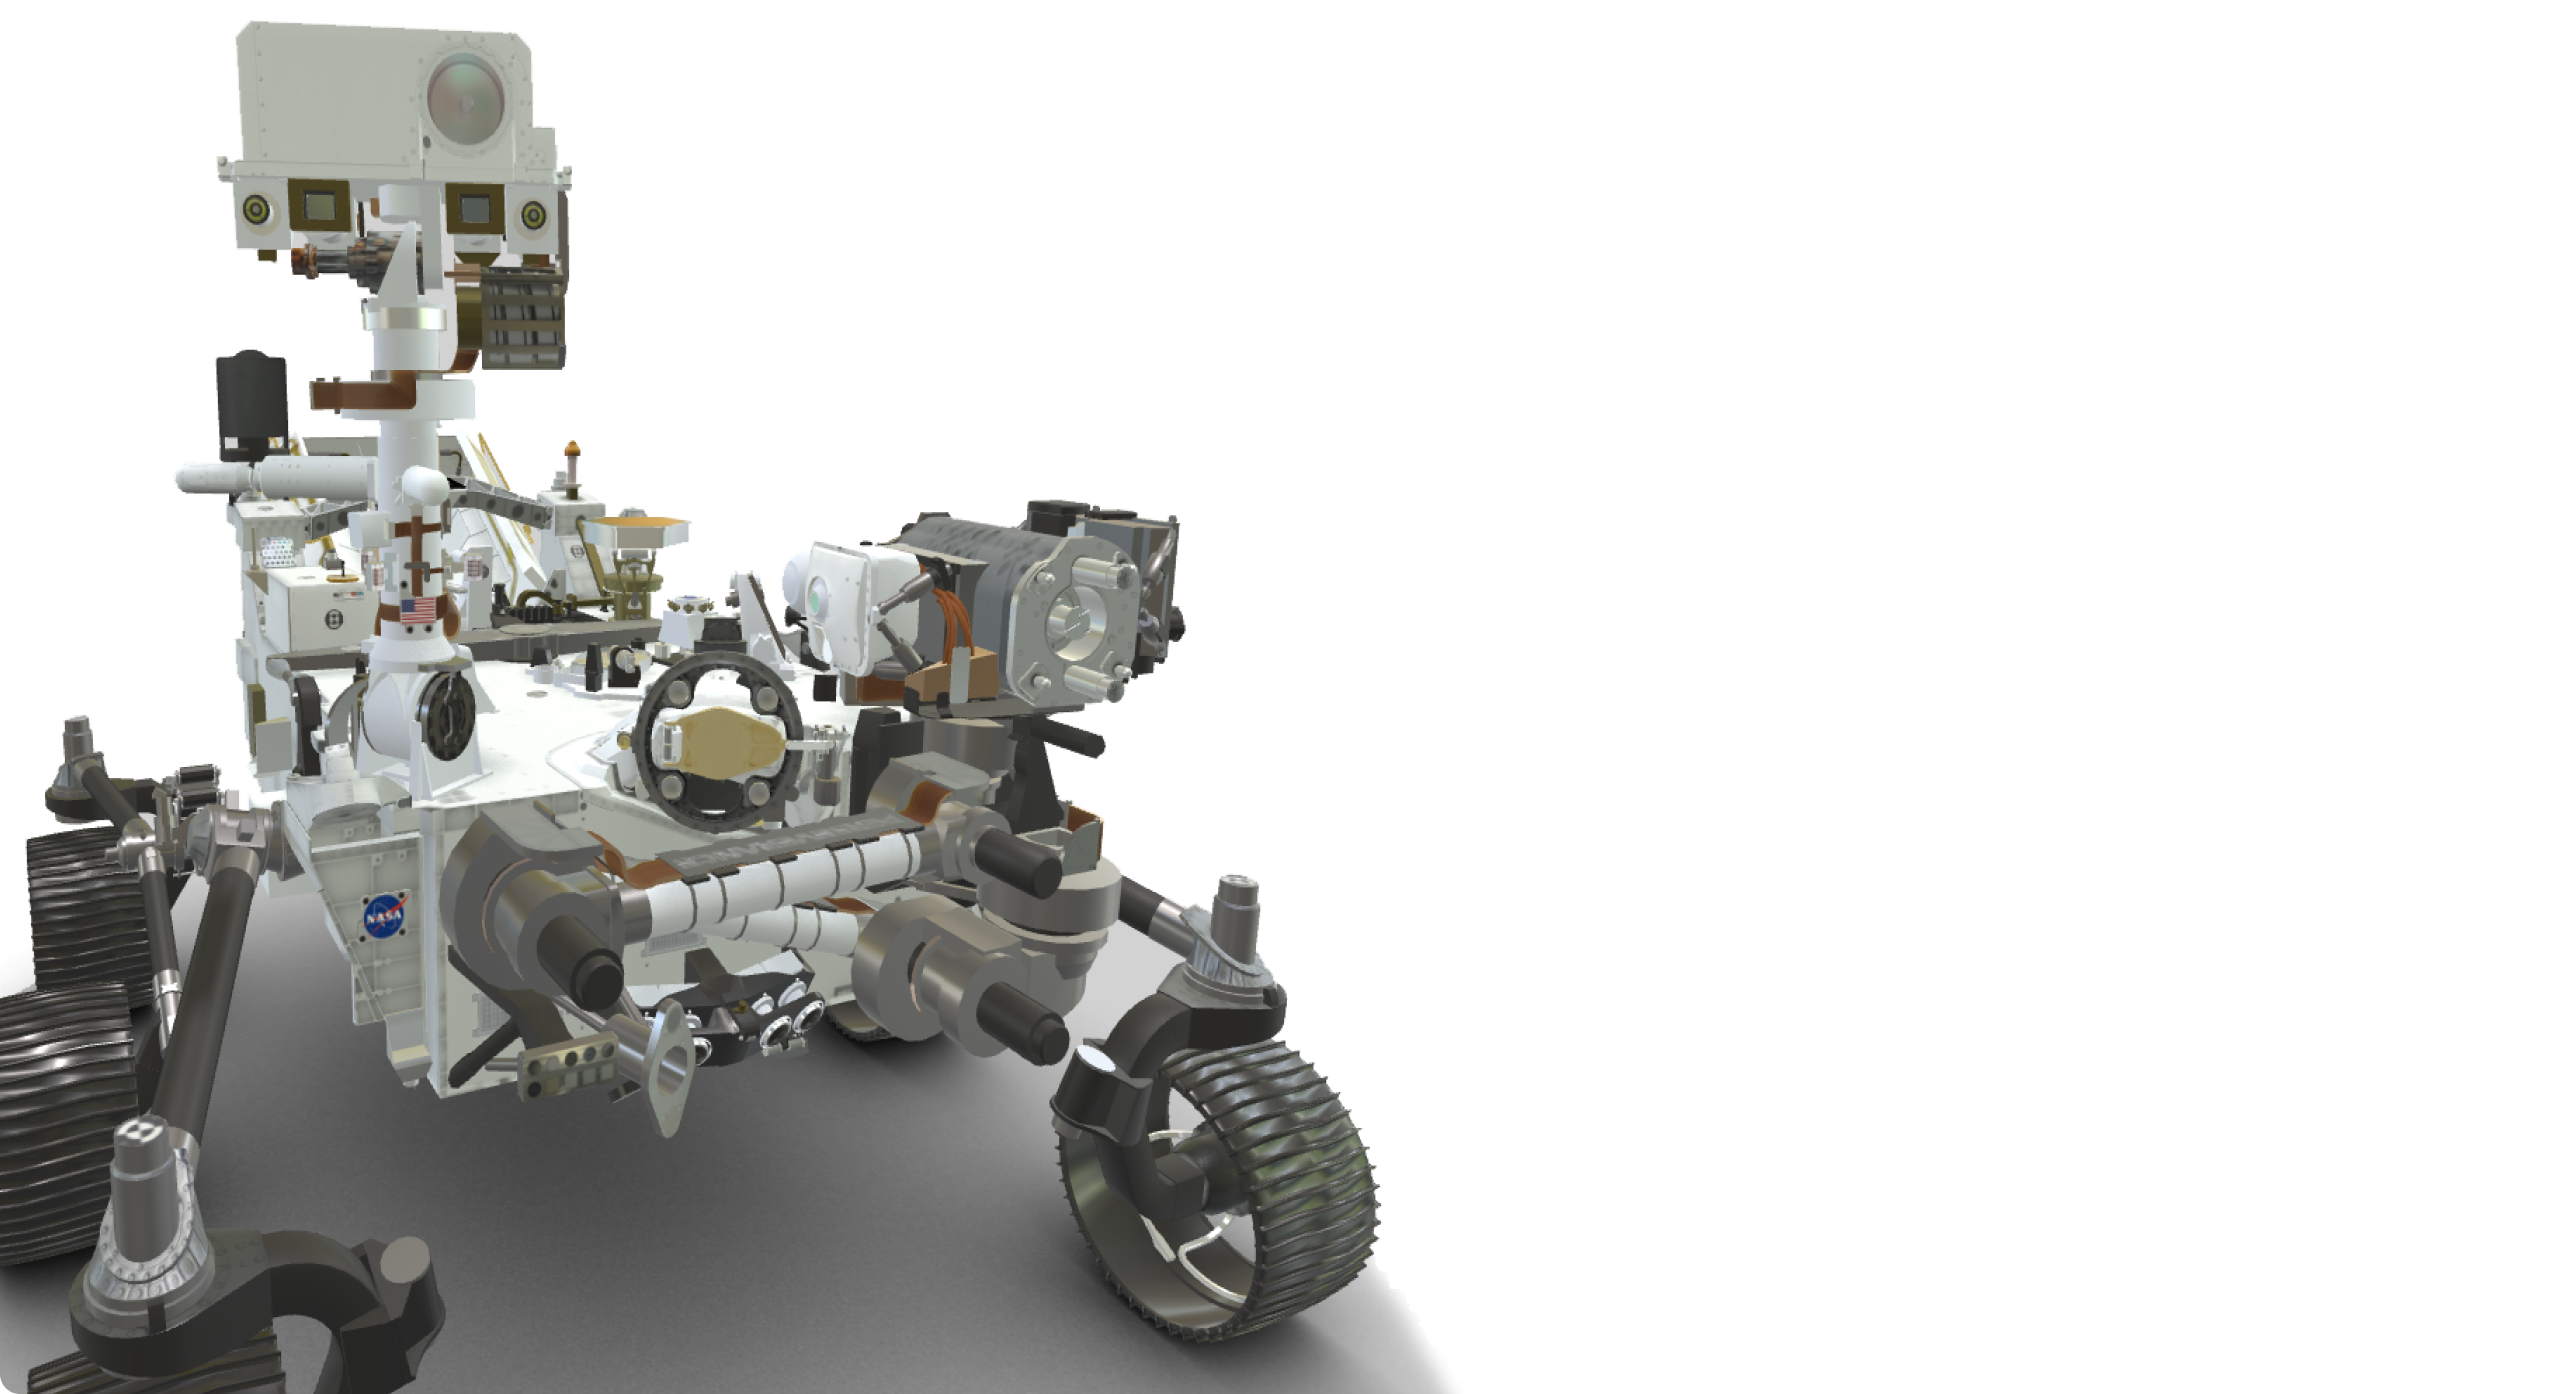
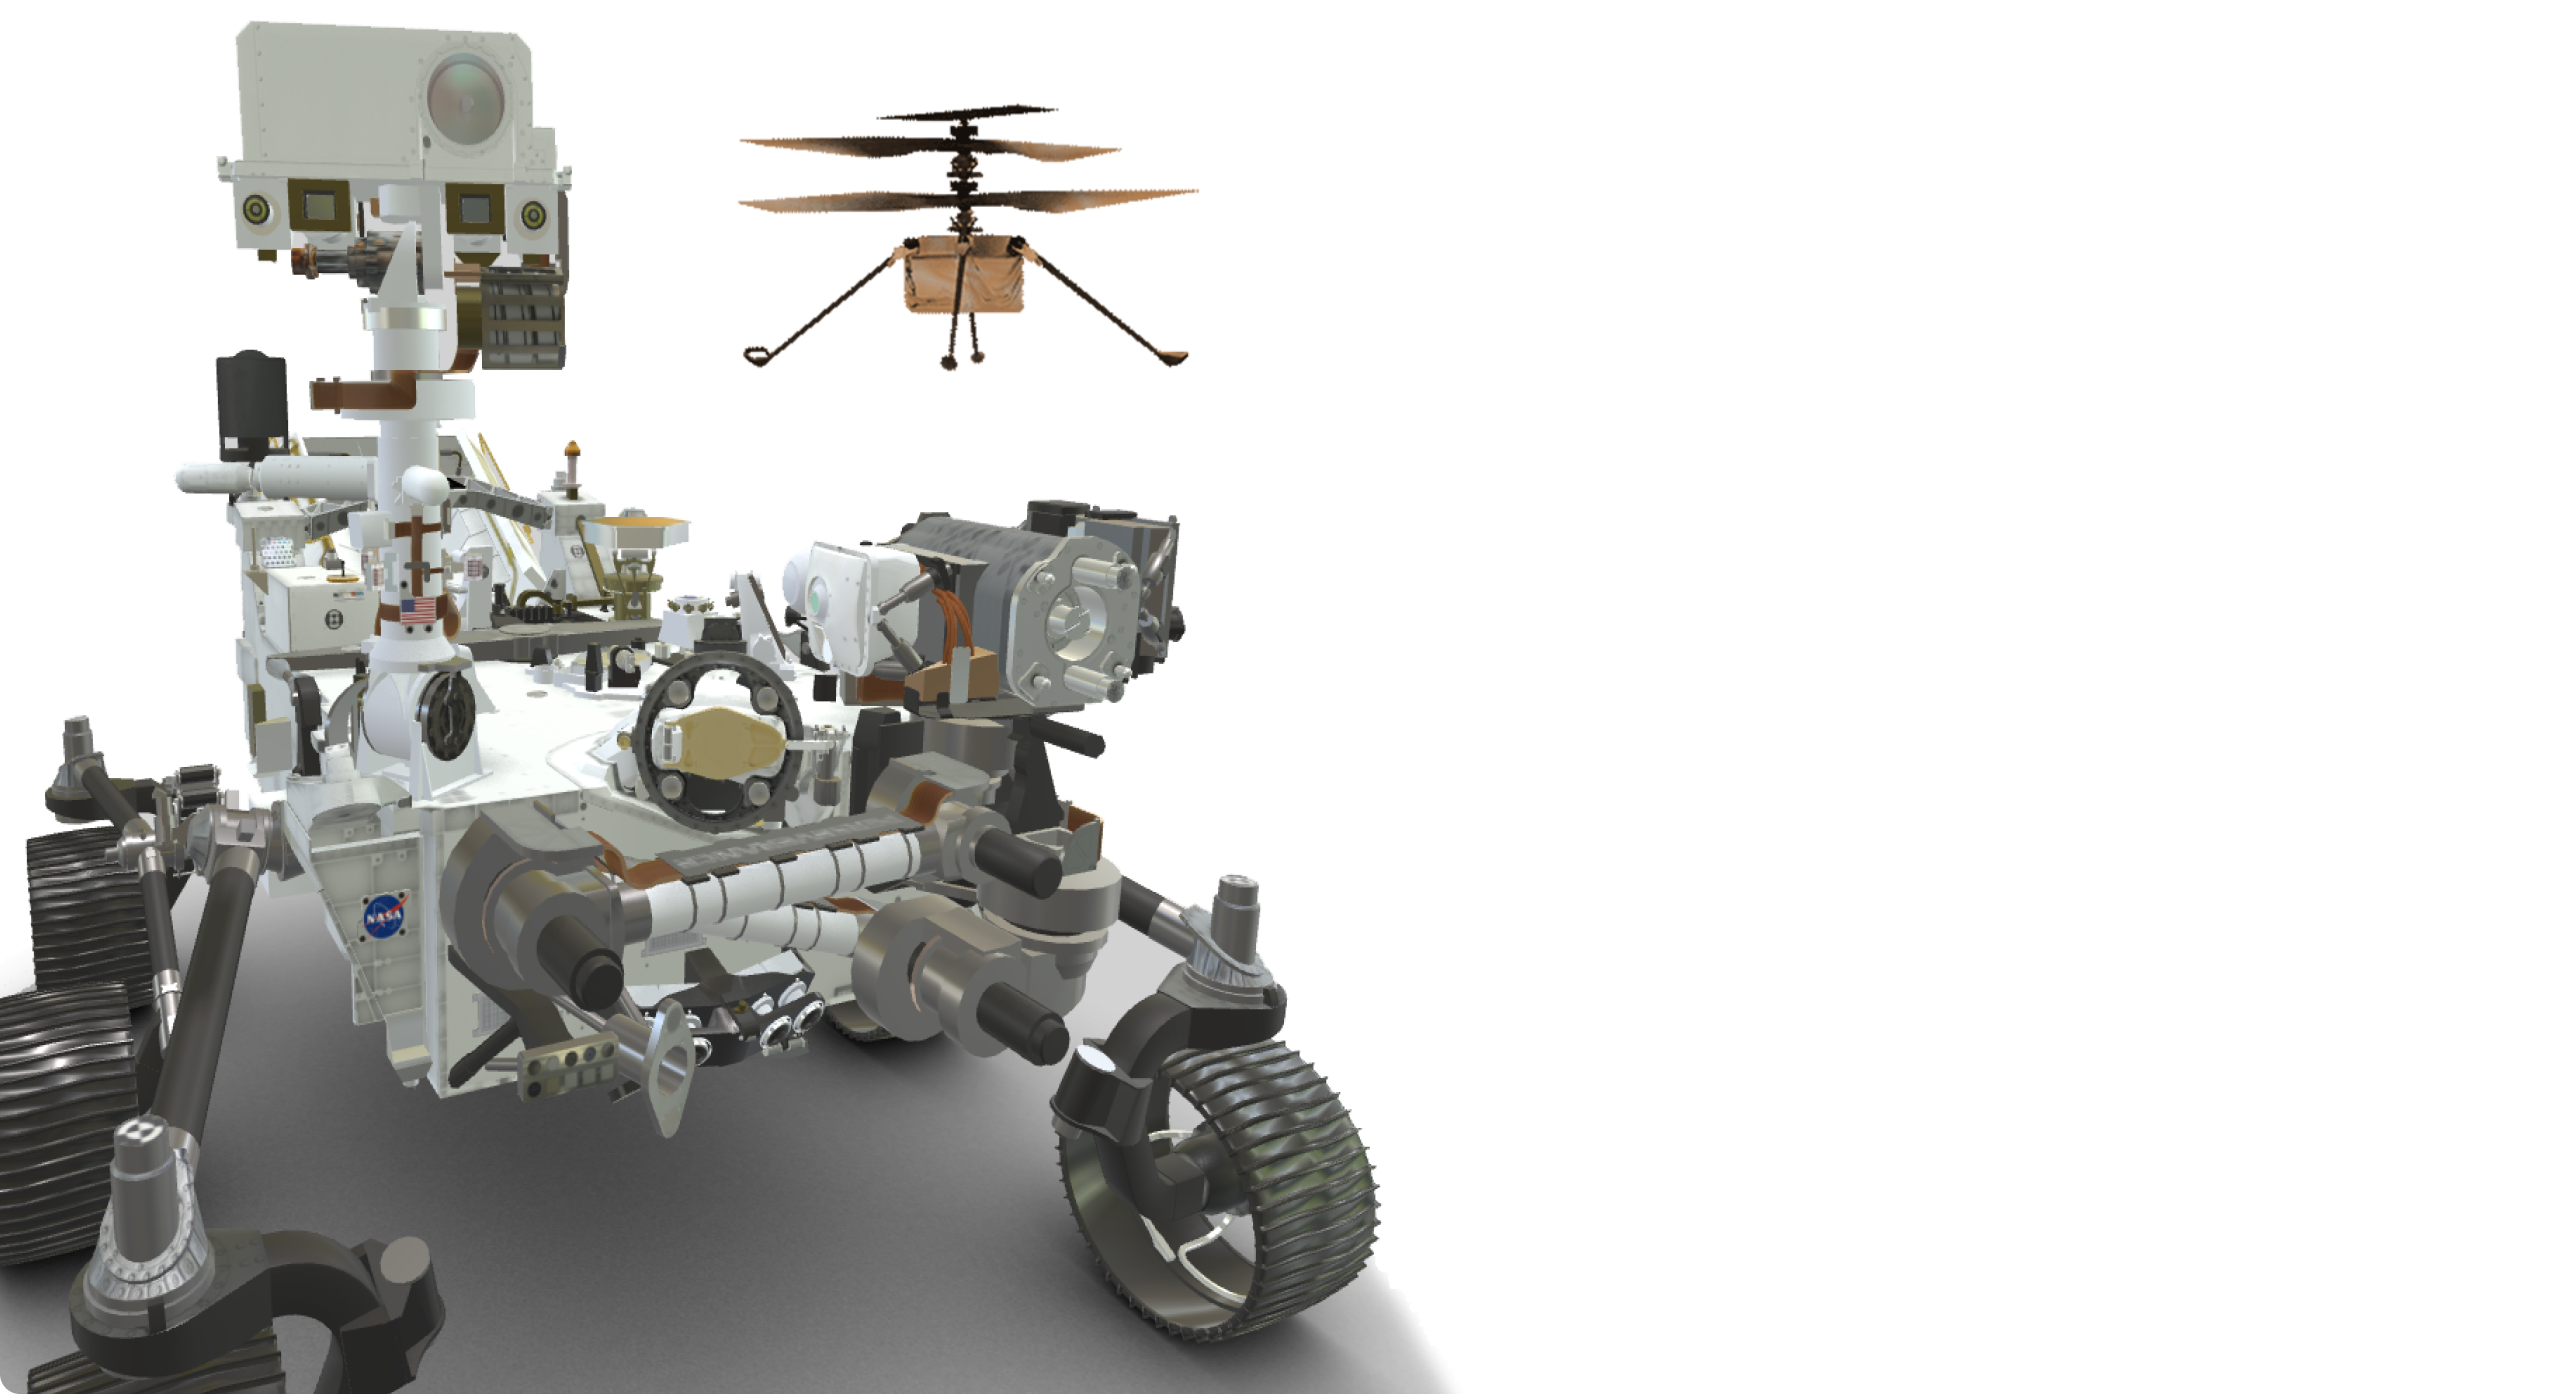
feat: implement Mars mission overview page

Changed region(s): [[0.2806, 0.0617, 0.4677, 0.2468], [0.4365, 0.2468, 0.4677, 0.2776], [0.2806, 0.2468, 0.3118, 0.2776]]

diff --git a/lib/pages/mars_page.dart b/lib/pages/mars_page.dart
@@ -1,0 +1,105 @@
+import 'package:flutter/material.dart';
+import 'package:lg_space_visualizations/pages/template_page.dart';
+import 'package:lg_space_visualizations/utils/styles.dart';
+import 'package:lg_space_visualizations/widget/button.dart';
+import 'package:lg_space_visualizations/widget/custom_icon.dart';
+import 'package:lg_space_visualizations/widget/info_box.dart';
+
+class MarsPage extends StatefulWidget {
+  const MarsPage({super.key});
+
+  @override
+  _MarsPageState createState() => _MarsPageState();
+}
+
+class _MarsPageState extends State<MarsPage> {
+  @override
+  Widget build(BuildContext context) {
+    return TemplatePage(title: "Mars 2020", children: [
+      Expanded(
+        child: Container(
+          decoration: BoxDecoration(
+            borderRadius: BorderRadius.circular(borderRadius),
+            color: backgroundColor,
+            image: const DecorationImage(
+              alignment: Alignment.topCenter,
+              image: AssetImage("assets/images/rover.png"),
+              fit: BoxFit.cover,
+            ),
+          ),
+          padding: EdgeInsets.only(
+            top: spaceBetweenWidgets / 2,
+            left: 2 * spaceBetweenWidgets,
+            right: 2 * spaceBetweenWidgets,
+            bottom: spaceBetweenWidgets / 2,
+          ),
+          child: Row(
+            children: [
+              Expanded(
+                child: Container(),
+              ),
+              Expanded(
+                  child: Column(
+                crossAxisAlignment: CrossAxisAlignment.start,
+                children: [
+                  Text(
+                    "Mission overview",
+                    style: middleTitle,
+                    textAlign: TextAlign.left,
+                  ),
+                  Text(
+                    'The Mars 2020 Perseverance Rover searches for signs of ancient microbial life, to advance NASA\'s quest to explore the past habitability of Mars. The rover is collecting core samples of Martian rock and soil, for potential pickup by a future mission that would bring them to Earth for detailed study.  Perseverance also tests technologies needed for the future human and robotic exploration of Mars.',
+                    style: smallText,
+                  ),
+                  const SizedBox(height: 15),
+                  const Row(
+                    mainAxisAlignment: MainAxisAlignment.spaceBetween,
+                    children: [
+                      InfoBox(text: '30 July 2020', subText: 'Launch'),
+                      InfoBox(text: '18 Feb 2021', subText: 'Landing'),
+                      InfoBox(text: 'Jezero Crater', subText: 'Location'),
+                    ],
+                  ),
+                  const SizedBox(height: 15),
+                  Text(
+                    'NASA chose Jezero Crater as the landing site for the Perseverance rover. Scientists believe the area was once flooded with water and was home to an ancient river delta. The process of landing site selection involved a combination of mission team members and scientists from around the world, who carefully examined more than 60 candidate locations on the Red Planet. After the exhaustive five-year study of potential sites, each with its own unique characteristics and appeal, Jezero rose to the top.',
+                    style: smallText,
+                  ),
+                  SizedBox(height: spaceBetweenWidgets),
+                  Button(
+                    color: secondaryColor,
+                    text: 'Read more about the mission',
+                    padding: const EdgeInsets.only(left: 15),
+                    borderRadius: BorderRadius.circular(borderRadius),
+                    icon: CustomIcon(
+                        name: 'read', size: 50, color: backgroundColor),
+                    onPressed: () {},
+                  ),
+                  SizedBox(height: spaceBetweenWidgets / 2),
+                  Button(
+                      color: secondaryColor,
+                      text: 'Meet Perseverance Rover',
+                      padding: const EdgeInsets.only(left: 15),
+                      borderRadius: BorderRadius.circular(borderRadius),
+                      icon: CustomIcon(
+                          name: 'rover', size: 50, color: backgroundColor),
+                      onPressed: () {}),
+                  SizedBox(height: spaceBetweenWidgets / 2),
+                  Button(
+                    color: secondaryColor,
+                    text: 'Meet Ingenuity Drone',
+                    padding: const EdgeInsets.only(left: 15),
+                    borderRadius: BorderRadius.circular(borderRadius),
+                    icon: CustomIcon(
+                        name: 'drone', size: 50, color: backgroundColor),
+                    onPressed: () {},
+                  )
+                ],
+              )),
+            ],
+          ),
+        ),
+      ),
+    ]);
+  }
+}

diff --git a/lib/utils/routes.dart b/lib/utils/routes.dart
@@ -4,6 +4,7 @@ import 'package:lg_space_visualizations/pages/splash_screen.dart';
 import 'package:lg_space_visualizations/pages/services_page.dart';
 import 'package:lg_space_visualizations/pages/settings_page.dart';
 import 'package:lg_space_visualizations/pages/info_page.dart';
+import 'package:lg_space_visualizations/pages/mars_page.dart';
 
 /// Generates a [Route] for the application based on the provided [RouteSettings].
 ///
@@ -32,6 +33,10 @@ Route<dynamic> makeRoute(RouteSettings settings) {
     case '/info':
       // Route for the info screen.
       builder = (BuildContext context) => const InfoPage();
+      break;
+    case '/mars':
+      // Route for the mars screen.
+      builder = (BuildContext context) => const MarsPage();
       break;
     default:
       // Default route if no match is found, redirects to the home page.

diff --git a/lib/widget/info_box.dart b/lib/widget/info_box.dart
@@ -1,0 +1,22 @@
+import 'package:flutter/material.dart';
+import 'package:lg_space_visualizations/utils/styles.dart';
+
+class InfoBox extends StatelessWidget {
+  final String text;
+  final String subText;
+
+  const InfoBox({super.key, required this.text, required this.subText});
+
+  @override
+  Widget build(BuildContext context) {
+    return Column(
+      crossAxisAlignment: CrossAxisAlignment.start,
+      children: [
+        Text(text, style: middleTitle),
+        Transform.translate(
+            offset: const Offset(0, -10),
+            child: Text(subText, style: smallText)),
+      ],
+    );
+  }
+}

diff --git a/lib/pages/home_page.dart b/lib/pages/home_page.dart
@@ -34,7 +34,11 @@ class _HomePageState extends State<HomePage> {
                       height: 220,
                       image: const AssetImage('assets/images/rover.png'),
                       text: 'MARS 2020\nMISSION',
-                      onPressed: () {},
+                      onPressed: () {
+                        setState(() {
+                          Navigator.pushNamed(context, '/mars');
+                        });
+                      },
                     ),
                     ImageButton(
                       width: 425,

diff --git a/lib/utils/styles.dart b/lib/utils/styles.dart
@@ -43,6 +43,11 @@ TextStyle middleText = TextStyle(
   fontSize: 20,
 );
 
+TextStyle smallText = TextStyle(
+  color: primaryColor,
+  fontSize: 15,
+);
+
 TextStyle buttonText = TextStyle(
   color: backgroundColor,
   fontSize: 20,
